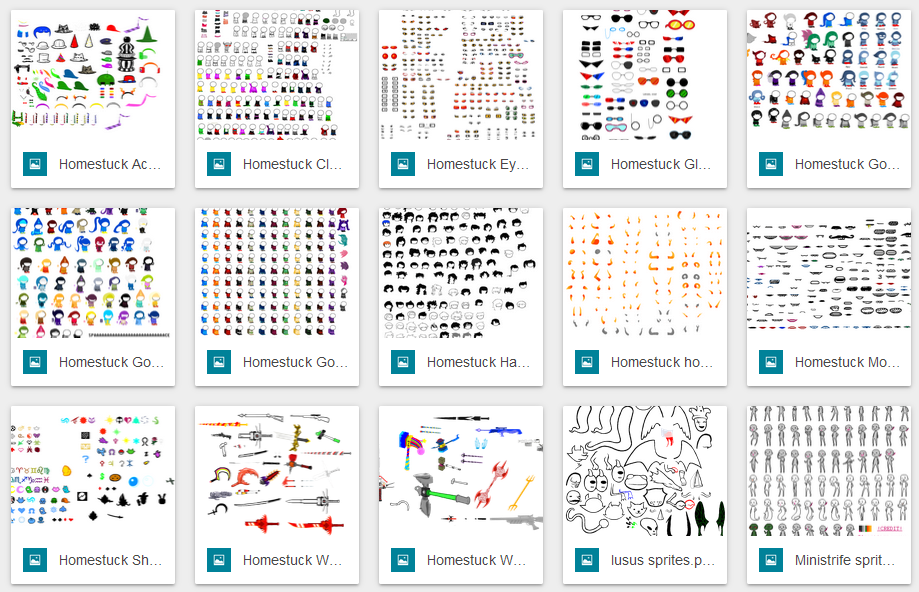
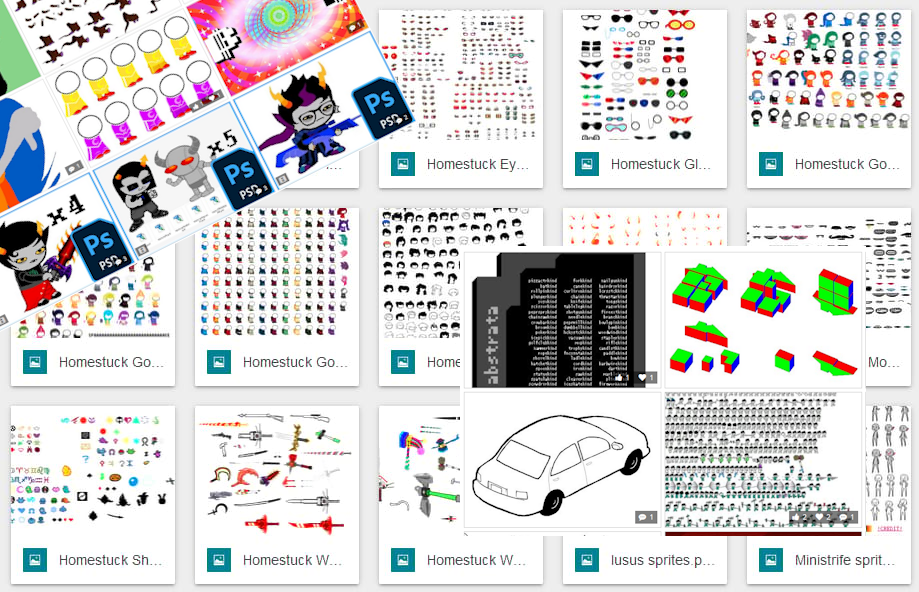
add psd support to resources booru

diff --git a/resources/assets.html b/resources/assets.html
@@ -67,9 +67,8 @@
 
       <!-- Page Heading -->
       <h1 class="my-4">Homestuck Art Assets</h1>
-      <p>A vast amount of sprites, backgrounds, bases, items, and everything you need for making your own art and fanventures. Most of the original sprites come from the dead Majhost archive, which was not credited. Credits have been included when found.</p>
-      <p>Uncategorized assets (mostly from the MSPFA Discord #resources channel, many redundant to the ones below) can be found <a href="/img/resources/assets/uncategorized-assets/">here</a>.</p>
-      <p><i>As of 2023, this whole page is largely a redundant and incomplete mirror to the Homestuck Resources Booru below. I recommend you click that and ignore the rest.</i></p>
+      <p>A vast amount of sprites, backgrounds, bases, items, and everything you need for making your own art and fanventures.</p>
+      <p>Some uncategorized assets (mostly from the MSPFA Discord #resources channel, many redundant to the ones below) can be found <a href="/img/resources/assets/uncategorized-assets/">here</a>. You're encouraged to add them to the Booru and let us know when we've achieved full parity.</p>
       <hr>
       <div class="row">
         <div class="col-md-4">
@@ -79,147 +78,149 @@
         </div>
         <div class="col-md-7">
             <h2>Homestuck Resources Booru</h2>
-            <p>A better, user editable way to categorize Homestuck assets. Includes every asset otherwise included in this page, and more.</p> 
-            <p>To upload psds, make a regular submission surrounded by the <a href="/img/resources/psd-frame.png">.psd frame</a>
-            and contact us at homestucknet@protonmail.com so we upload the psd file and link it manually in the submission.</p>
+            <p>A better, user editable way to browse, search, upload and categorize Homestuck assets and resources, from spritesheets to Hussie's own inspirations.</p> 
+            <p>As of 2025, there is now limited support for .psd project files, you'll simply need to live with the lower resolution thumbnail.</p>
         </div>
       </div>
       <hr>
-      ...
+      <section style="opacity:0.2">
+      <h4>Outdated asset list</h4>
+      <subtitle>The assets below belong to an earlier, non-user editable version of the site. This is only kept for additional archive.org crawl redundancy, and virtually everything is replicated in the Booru above, which you should use instead.</subtitle>
       <hr>
       <div class="row">
-          <div class="col-md-4">
+          <div class="col-md-2">
               <a href="./human-sprites.html">
                   <img class="img-fluid rounded mb-3 mb-md-0 thumbnail" src="/img/resources/human-sprites.png" alt="">
               </a>
           </div>
-          <div class="col-md-7">
-              <h3>Human Sprite Sheets</h3>
+          <div class="col-md-9">
+              <h5>Human Sprite Sheets</h5>
               <p>Transparent sprite sheets for the Homestuck humans.</p>
           </div>
       </div>
       <hr>
       <div class="row">
-          <div class="col-md-4">
+          <div class="col-md-2">
               <a href="./troll-sprites.html">
                   <img class="img-fluid rounded mb-3 mb-md-0 thumbnail" src="/img/resources/troll-sprites.png" alt="">
               </a>
           </div>
-          <div class="col-md-7">
-              <h3>Troll Sprite Sheets</h3>
+          <div class="col-md-9">
+              <h5>Troll Sprite Sheets</h5>
               <p>Transparent sprite sheets for the Homestuck trolls.</p>
           </div>
       </div>
       <hr>
       <div class="row">
-          <div class="col-md-4">
+          <div class="col-md-2">
               <a href="./misc-sprites.html">
                   <img class="img-fluid rounded mb-3 mb-md-0 thumbnail" src="/img/resources/misc-sprites.png" alt="">
               </a>
           </div>
-          <div class="col-md-7">
-              <h3>Misc Sprite Sheets</h3>
+          <div class="col-md-9">
+              <h5>Misc Sprite Sheets</h5>
               <p>Sprites for monsters, NPCs and other aliens of the Homestuck universe.</p>
           </div>
       </div>
       <hr>
       <div class="row">
-          <div class="col-md-4">
+          <div class="col-md-2">
               <a href="./base-prop-sprites.html">
                   <img class="img-fluid rounded mb-3 mb-md-0 thumbnail" src="/img/resources/base-prop-sprites.png" alt="">
               </a>
           </div>
-          <div class="col-md-7">
-              <h3>Weapons, Props, Bases and Clothing</h3>
+          <div class="col-md-9">
+              <h5>Weapons, Props, Bases and Clothing</h5>
               <p>Transparent sprite sheets with weapons and clothing to layer over your or Homestuck's characters. As well as bases to draw your customization on.</p>
           </div>
       </div>
       <hr>
       <div class="row">
-          <div class="col-md-4">
+          <div class="col-md-2">
               <a href="./attack-sprites.html">
                   <img class="img-fluid rounded mb-3 mb-md-0 thumbnail" src="/img/resources/attack-sprites.png" alt="">
               </a>
           </div>
-          <div class="col-md-7">
-              <h3>FX and Attack Sprite Sheets</h3>
+          <div class="col-md-9">
+              <h5>FX and Attack Sprite Sheets</h5>
               <p>Mostly from Collide, these sprite sheets contain fraymotifs and other attack sprites for you to use in fight scenes and the like.</p>
           </div>
       </div>
       <hr>
       <div class="row">
-          <div class="col-md-4">
+          <div class="col-md-2">
               <a href="./walkaround-assets.html">
                   <img class="img-fluid rounded mb-3 mb-md-0 thumbnail" src="/img/resources/walkaround-assets.png" alt="">
               </a>
           </div>
-          <div class="col-md-7">
-              <h3>Walkaround Assets</h3>
+          <div class="col-md-9">
+              <h5>Walkaround Assets</h5>
               <p>Assets from Homestuck's walkarounds, like levels and talksprites.</p>
           </div>
       </div>
       <hr>
       <div class="row">
-          <div class="col-md-4">
+          <div class="col-md-2">
               <a href="./house-assets.html">
                   <img class="img-fluid rounded mb-3 mb-md-0 thumbnail" src="/img/resources/house-assets.png" alt="">
               </a>
           </div>
-          <div class="col-md-7">
-              <h3>House Assets</h3>
+          <div class="col-md-9">
+              <h5>House Assets</h5>
               <p>Homestuck furniture, rooms and paraphernalia related to the environments characters walk around in.</p>
           </div>
       </div>
       <hr>
       <div class="row">
-          <div class="col-md-4">
+          <div class="col-md-2">
               <a href="./incipisphere-assets.html">
                   <img class="img-fluid rounded mb-3 mb-md-0 thumbnail" src="/img/resources/incipisphere-assets.png" alt="">
               </a>
           </div>
-          <div class="col-md-7">
-              <h3>Incipisphere Assets</h3>
+          <div class="col-md-9">
+              <h5>Incipisphere Assets</h5>
               <p>Planets, horrorterrors, Skaian environments for your personal use.</p>
           </div>
       </div>
       <hr>
       <div class="row">
-          <div class="col-md-4">
+          <div class="col-md-2">
               <a href="./background-assets.html">
                   <img class="img-fluid rounded mb-3 mb-md-0 thumbnail" src="/img/resources/background-assets.png" alt="">
               </a>
           </div>
-          <div class="col-md-7">
-              <h3>Background Assets</h3>
+          <div class="col-md-9">
+              <h5>Background Assets</h5>
               <p>Panel backgrounds and every asset useful for placing behind the focus of the action.</p>
           </div>
       </div>
       <hr>
       <div class="row">
-        <div class="col-md-4">
+        <div class="col-md-2">
             <a href="./semi-sprites.html">
                 <img class="img-fluid rounded mb-3 mb-md-0 thumbnail" src="/img/resources/semi-sprites.png" alt="">
             </a>
         </div>
-        <div class="col-md-7">
-            <h3>Character Semi-sprites</h3>
+        <div class="col-md-9">
+            <h5>Character Semi-sprites</h5>
             <p>Both resources and an art study on the art style between Sprite Mode and Hero Mode, used throughout the early acts of Homestuck.</p>
         </div>
     </div>
     <hr>
       <div class="row">
-          <div class="col-md-4">
+          <div class="col-md-2">
               <a href="https://mega.nz/file/JpxEkQTT#VduDpOXmz9tx5t-ByHHAXRavc_J0hnXk541qPkVY2yk">
                   <img class="img-fluid rounded mb-3 mb-md-0 thumbnail" src="/img/resources/flash-archive.jpg" alt="">
               </a>
           </div>
-          <div class="col-md-7">
+          <div class="col-md-9">
               <span style="float:right; font-style:italic">GiovanH</span>
-              <h3>Full Homestuck Flash Extracts</h3>
+              <h5>Full Homestuck Flash Extracts</h5>
               <p>An exhaustive set of assets used in Homestuck flashes and extracted by <a href="https://giovanh.com">GiovanH</a>. Mostly included above, but some extremely specific stuff is found within this download. <a href="http://www.mediafire.com/file/fzssahf0d5s6lqc/homestuck_flash_assets.7z/file">[Mirror 1]</a> <a href="https://mega.nz/file/u74gxbQJ#V8e8IHFkMf8TlSDq-pg9noVlkuoM2y_JbguES0-Sqxw">[Mirror 2]</a></p>
           </div>
       </div>
-      <hr>
+    <hr>
+    </section>
     </div>
 
 </body>
